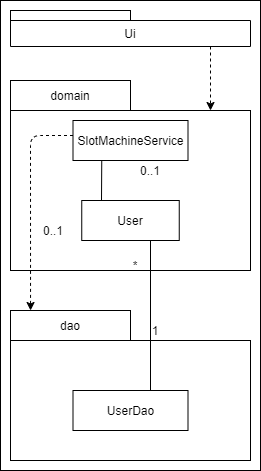
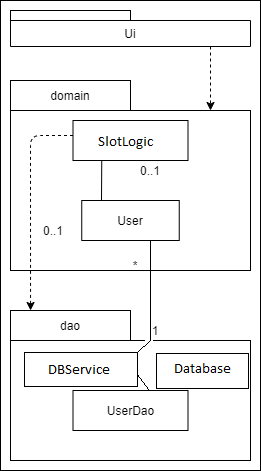
documentation

diff --git a/SlotMachine/src/main/java/slotmachine/dao/DBService.java b/SlotMachine/src/main/java/slotmachine/dao/DBService.java
@@ -77,8 +77,8 @@ public class DBService implements UserDao {
      * helper method for others
      * @param username username
      * @return User or null, if given username is not in database
-     * @throws SQLException
-     * @throws ClassNotFoundException 
+     * @throws SQLException SQLException
+     * @throws ClassNotFoundException ClassNotFoundException
      */
     @Override
     public User getUser(String username) throws SQLException, ClassNotFoundException {
@@ -106,9 +106,9 @@ public class DBService implements UserDao {
 
     /**
      * helper method for others
-     * @return List<User> 
-     * @throws ClassNotFoundException
-     * @throws SQLException 
+     * @return List of all users
+     * @throws ClassNotFoundException ClassNotFoundException
+     * @throws SQLException SQLException
      */
     @Override
     public List<User> getAll() throws ClassNotFoundException, SQLException {

diff --git a/SlotMachine/src/test/java/tests/domain/SlotLogicTest.java b/SlotMachine/src/test/java/tests/domain/SlotLogicTest.java
@@ -24,7 +24,7 @@ public class SlotLogicTest {
     }
     
     @Test
-    public void testWin1(){
+    public void testWinRow1(){
         for (int i = 0; i < 3; i++) {
             slot.getSlots()[0][i] = 1;
         }
@@ -33,7 +33,7 @@ public class SlotLogicTest {
     }
     
     @Test
-    public void testWin2() {
+    public void testWinRow2() {
         slot.getSlots()[0][0] = 8;
         for (int i = 0; i < 3; i++) {
             slot.getSlots()[1][i] = 1;
@@ -43,7 +43,7 @@ public class SlotLogicTest {
     }
     
     @Test
-    public void testWin3() {
+    public void testWinRow3() {
         slot.getSlots()[0][0] = 8;
         slot.getSlots()[1][0] = 8;
         for (int i = 0; i < 3; i++) {

diff --git a/SlotMachine/src/main/java/slotmachine/domain/SlotLogic.java b/SlotMachine/src/main/java/slotmachine/domain/SlotLogic.java
@@ -67,11 +67,11 @@ public class SlotLogic {
      * check if any of the rows have won
      */
     public void checkWin() {
-        if (slots[0][0] == slots[0][1] && slots[0][1] == slots[0][2]) {
+        if (slots[0][0] == slots[0][1] && slots[0][0] == slots[0][2]) {
             won = true;
-        } else if (slots[1][0] == slots[1][1] && slots[1][1] == slots[1][2]) {
+        } else if (slots[1][0] == slots[1][1] && slots[1][0] == slots[1][2]) {
             won = true;
-        } else if (slots[2][0] == slots[2][1] && slots[2][1] == slots[2][2]) {
+        } else if (slots[2][0] == slots[2][1] && slots[2][0] == slots[2][2]) {
             won = true;
         } else {
             won = false;
